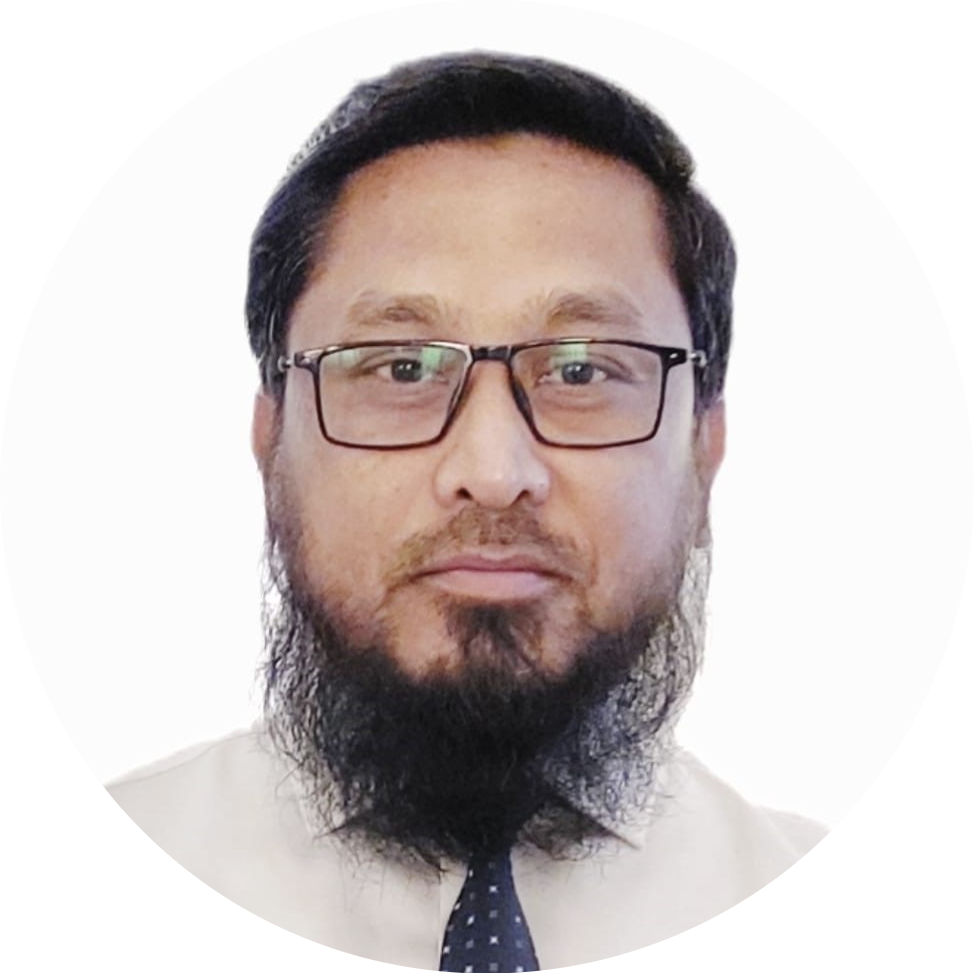
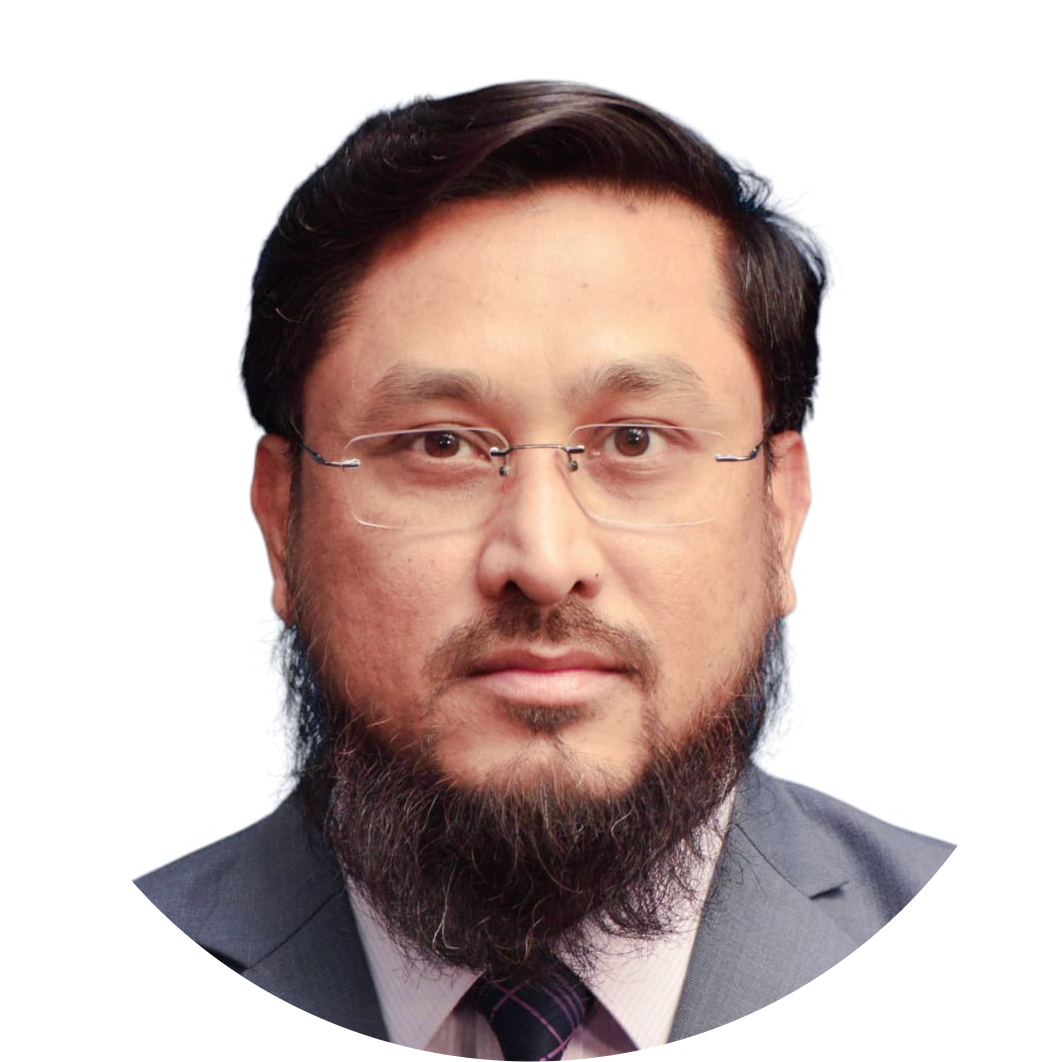
updating all things

diff --git a/index.html b/index.html
@@ -14,7 +14,7 @@
     <div class="container">
         <div class="header">
             <div class="profile-pic">
-                <img src="assets/profile image.jpg" alt="Profile Picture">
+                <img src="assets/baba new pic.jpg" alt="Profile Picture">
             </div>
 
             <div>
@@ -63,11 +63,10 @@
                                 <h4>linkedin.com/in/fahadahmadsanofi</h4>
                             </div>
                         </a>
-                        <a target="_blank"
-                            href="https://www.google.com/maps/place/24%C2%B051'59.0%22N+67%C2%B011'54.4%22E/@24.8664012,67.1972363,19z/data=!3m1!4b1!4m13!1m8!3m7!1s0x3eb330aed6e64901:0x549ade1e16dbb2c6!2sGohar+Green+City+Bagh+e+Ibrahim+Society+Shah+Faisal+Colony,+Karachi,+Karachi+City,+Sindh,+Pakistan!3b1!8m2!3d24.867392!4d67.196152!16s%2Fg%2F11hb0j78yn!3m3!8m2!3d24.8664!4d67.198454?entry=ttu">
+                        <a>
                             <div class="contact-item">
                                 <i class="ri-map-pin-fill"></i>
-                                <h4>L-554, Gohar Green City, Karachi</h4>
+                                <h4>R-154, Falaknaz Villa Phase 2 Malir Karachi</h4>
                             </div>
                         </a>
                     </div>
@@ -126,9 +125,7 @@
                 <div class="experience">
                     <div class="experience-left">
                         <h3>2020 to Date</h3>
-                        <img class="_7_i_XA" crossorigin="anonymous"
-                            src="assets/heacts.png"
-                            draggable="false">
+                        <img class="_7_i_XA" crossorigin="anonymous" src="assets/heacts.png" draggable="false">
                         <p>Karachi</p>
                     </div>
                     <div class="experience-right">
@@ -143,8 +140,7 @@
                 <div class="experience">
                     <div class="experience-left">
                         <h3>May 20 to Date</h3>
-                        <img class="_7_i_XA" crossorigin="anonymous"
-                            src="assets/heacts.png" draggable="false">
+                        <img class="_7_i_XA" crossorigin="anonymous" src="assets/heacts.png" draggable="false">
                         <p>Karachi</p>
                     </div>
                     <div class="experience-right">
@@ -267,7 +263,7 @@
                     </div>
                     <div class="experience-right">
                         <h3>NATIONAL BEST District Manager PRODUCT WISE awards</h3>
-                        <p> General Medicine Portfolio Sales Management Based at Peshawar</p>
+                        <p> Quarter wise Top Achievement Awards in 2016 to 2020</p>
                     </div>
                 </div>
             </div>
@@ -280,7 +276,7 @@
                     </div>
                     <div class="experience-right">
                         <h3>NATIONAL Best District Manager TRADE SALES awards</h3>
-                        <p> General Medicine Portfolio Sales Management Based at Peshawar</p>
+                        <p> Quarter wise Top Achievement Awards in 2016 to 2020</p>
                     </div>
                 </div>
             </div>
@@ -292,8 +288,8 @@
                         <p>Karachi</p>
                     </div>
                     <div class="experience-right">
-                        <h3>Champion award of suzuki mehran</h3>
-                        <p>As As a DM achieved Best DM among all pakistan with consistant Performance in next years.</p>
+                        <h3>Champion award of <b>Suzuki Mehran</b></h3>
+                        <p>As a DM achieved Best DM among all pakistan with consistant Performance in next years.</p>
                     </div>
                 </div>
             </div>
@@ -329,11 +325,44 @@
             <div class="experiance-container">
                 <div class="experience">
                     <div class="experience-left">
-                        <img class="_7_i_XA" crossorigin="anonymous" src="assets/maju.png" draggable="false">
-                        <h3 class="date dates">2021</h3>
+                        <div class="power_BIlogo">
+                            <img class="_7_i_XA" crossorigin="anonymous" src="assets/heacts.png" draggable="false">
+                        </div>
+                        <div class="power_BIlogo_date">
+                            <h3 class="date dates">Feb 2025</h3>
+                        </div>
                     </div>
                     <div class="experience-right">
-                        <h3 class="topics">Digital  marketing lead  generation & conversation  using direct  digital marketing  with ai  skills</h3>
+                        <h3 class="topics">Power BI</h3>
+
+                    </div>
+                </div>
+            </div>
+            <div class="experiance-container">
+                <div class="experience">
+                    <div class="experience-left">
+                        <div class="power_BIlogo">
+                            <img class="_7_i_XA" crossorigin="anonymous" src="assets/heacts.png" draggable="false">
+                        </div>
+                        <div class="power_BIlogo_date">
+                            <h3 class="date dates">Oct  2024</h3>
+                        </div>
+                    </div>
+                    <div class="experience-right">
+                        <h3 class="topics">IGNITE 2 LEAD in LUMS</h3>
+
+                    </div>
+                </div>
+            </div>
+            <div class="experiance-container">
+                <div class="experience">
+                    <div class="experience-left">
+                        <img class="_7_i_XA" crossorigin="anonymous" src="assets/maju.png" draggable="false">
+                        <h3 class="date dates">Mar-April  2023</h3>
+                    </div>
+                    <div class="experience-right">
+                        <h3 class="topics">Digital marketing lead generation & conversation using direct digital
+                            marketing with ai skills</h3>
 
                     </div>
                 </div>
@@ -482,15 +511,6 @@
                 <li class="skill-item">Business Analysis</li>
                 <li class="skill-item">Business Planning</li>
                 <li class="skill-item">Customer Development</li>
-            </ul>
-        </div>
-
-        <div class="section">
-            <h3 class="section-title">LANGUAGES</h3>
-            <ul class="languages-list">
-                <li class="language-item">English (Fluent)</li>
-                <li class="language-item">Urdu (Fluent)</li>
-                <li class="language-item">Pashto (Fluent)</li>
             </ul>
         </div>
     </div>

diff --git a/style.css b/style.css
@@ -20,7 +20,7 @@ a{
     padding: 20px;
     border: 0.5px solid black;
     border-radius: 20px;
-    box-shadow: 0px 0px 100px #ffc637af;
+    box-shadow: 0px 0px 20px #7a7a7aaf;
 }
 .profile{
     display: flex;
@@ -28,6 +28,11 @@ a{
 .profile-left{
     width: 50%;
     margin-right: 170px;
+}
+.profile-left p{
+    margin-left: 30px;
+    font-size: 15.5px;
+    margin-top: -10px;
 }
 .experience-left .date{
 margin-left: 10px;
@@ -59,11 +64,13 @@ margin-left: 10px;
     width: 100%;
     height: 100%;
     object-fit: cover;
+    margin-left: 4px;
+    margin-top: 7px;
 
 }
 
 .profile-pic {
-    border: 15px groove #FFC537;
+    border: 15px groove #5298A8;
 }
 
 .name {
@@ -221,7 +228,7 @@ li{
     margin: 5px;
     padding: 5px 10px;
     font-weight: 500;
-    background-color: #FFC537;
+    background-color: #5298A8;
     border-radius: 5px;
 }
 
@@ -261,7 +268,7 @@ li{
 }
 
 .section-title {
-    background: #FFC537;
+    background:#69B7C3;
     padding: 15px;
     color: #000000;
     margin: 30px 0;
@@ -310,7 +317,7 @@ li{
     }
 
     .experience-right .topic{
-        margin-top: 20px;
+        margin-top: 0px;
     }
 
     .experience {
@@ -353,4 +360,10 @@ li{
     .profile-right .section-title{
         border-radius: 0 50px 50px 0;
     } 
+}
+.power_BIlogo{
+    margin-left: 10px;
+}
+.power_BIlogo_date{
+    margin-left: -5px;
 }
